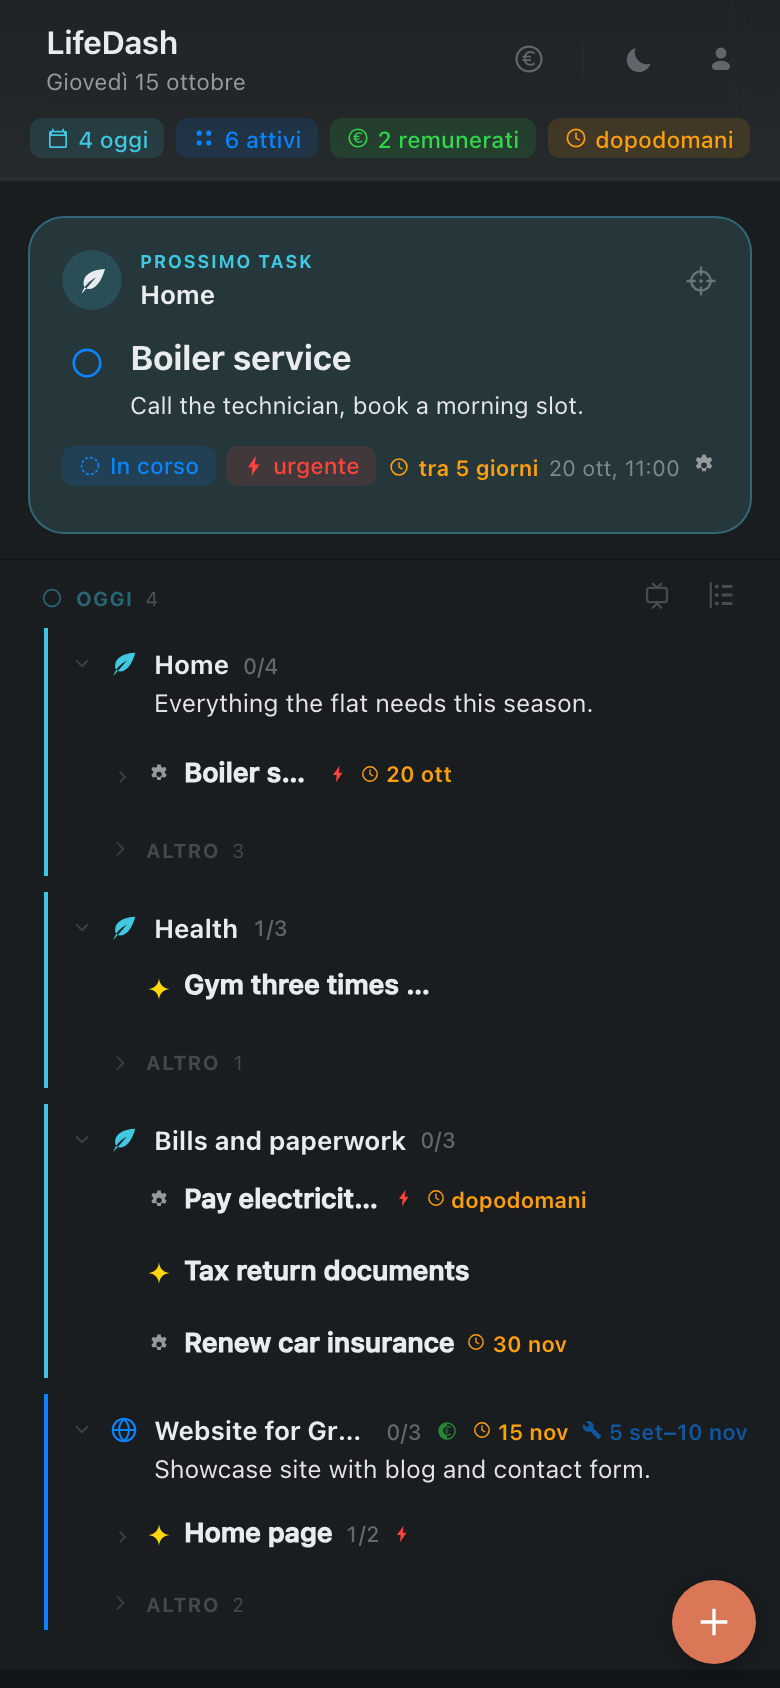
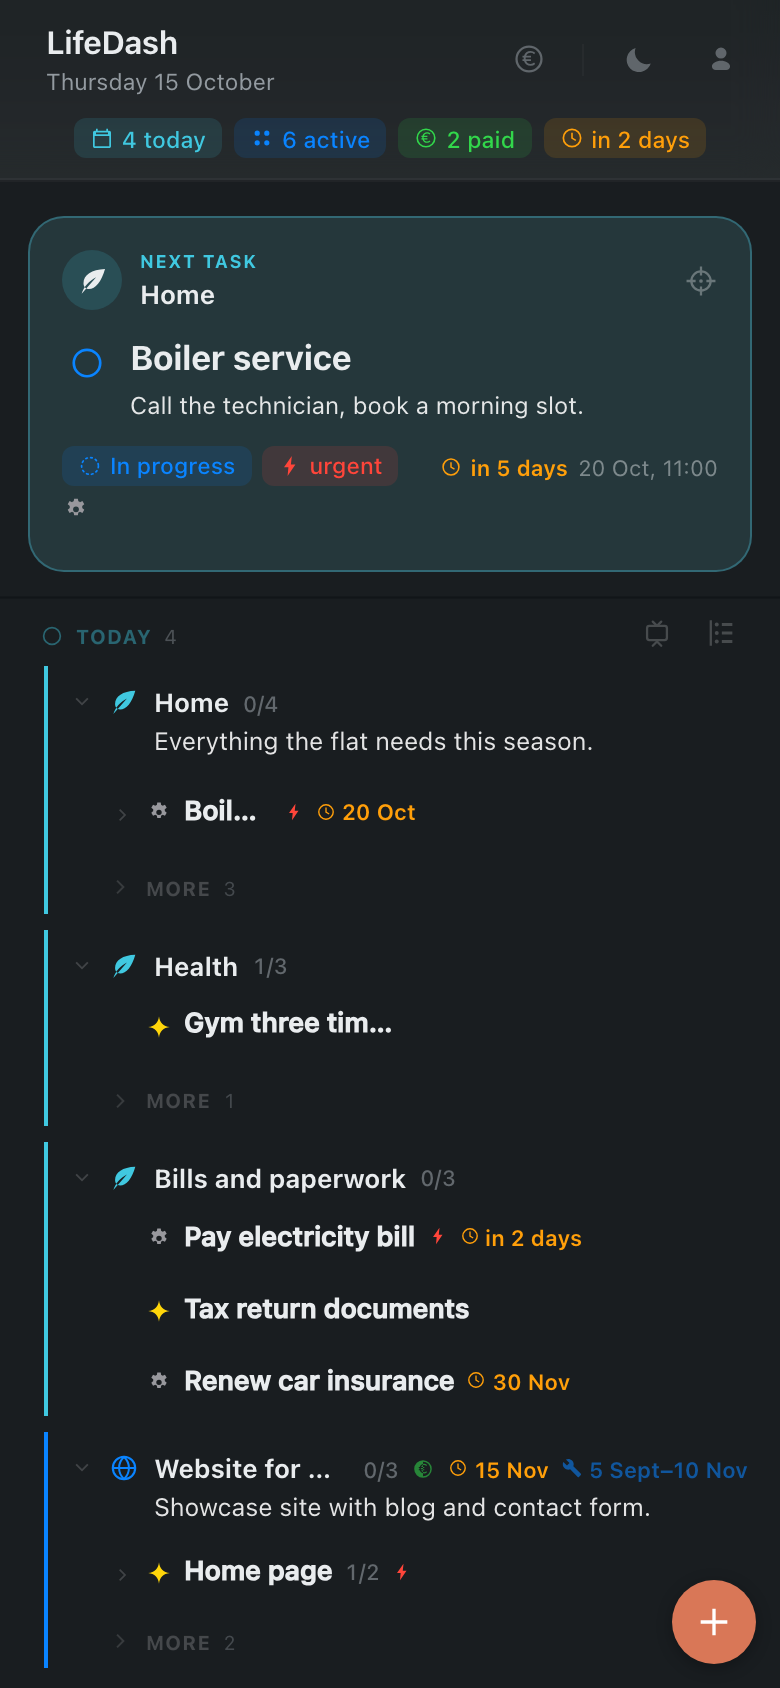
README: English interface, CLI section, privacy; new screenshots

diff --git a/README.md b/README.md
@@ -9,15 +9,10 @@ needs servicing, the bill due on Friday, the dentist, the trip in December, the
 client project that pays the rent: each area of your life is a project, each
 thing to do is a task, and the app always shows you what comes next.
 
-It is a native Mac app and a web app for your phone, kept in sync and
-encrypted end to end. Your data is a single readable file on your Mac, and it
-stays yours.
+It is a native Mac app and a web app for your phone, in English and Italian,
+kept in sync and encrypted end to end: your data stays yours.
 
 <p align="center"><img src="docs/img/web-list.png" width="720" alt="The list: next task at the top, projects grouped by status"></p>
-
-> **Language.** The interface is in Italian for now; your own projects and tasks
-> can be written in any language, as in the screenshots. An English interface is
-> planned.
 
 ## What it is for
 
@@ -37,8 +32,8 @@ live in your head, in sticky notes and in a dozen apps.
 ## How it works, in one minute
 
 1. **Projects** are the areas of your life (Home, Health, a trip, a client).
-   Each one has a status: *Oggi* (today, active now), *Futuri* (planned),
-   *In pausa* (paused) or *Completati* (done).
+   Each one has a status: *Today* (active now), *Planned*, *Paused* or
+   *Done*.
 2. **Tasks** live inside projects and can contain sub-tasks, as deep as you
    need. A task can be *to do*, *in progress*, *blocked* (with a note on why)
    or *done*, and can be marked *urgent*.
@@ -62,11 +57,10 @@ live in your head, in sticky notes and in a dozen apps.
 2. Open LifeDash. The app is signed and notarised by Apple, so it opens
    without warnings.
 3. Press **+** to create your first project, then add tasks to it. That's it:
-   LifeDash works fully offline, without an account.
+   LifeDash works on the Mac even without an account.
 
-Your data is saved in `~/Library/Application Support/LifeDash/tasks.json`.
-From **File › Scegli cartella dei dati…** (choose data folder) you can move it anywhere, for example into
-iCloud Drive or Dropbox.
+The interface follows the language of your Mac: Italian on an Italian system,
+English everywhere else.
 
 ### On your phone (and any browser)
 
@@ -79,6 +73,8 @@ iCloud Drive or Dropbox.
 3. On the phone, open **[antarcorrado.com/lifedash](https://www.antarcorrado.com/lifedash/)**,
    sign in, and add it to the Home Screen (Safari: Share › Add to Home Screen).
    It then opens like an app, works offline, and can send notifications.
+   The web app follows your browser's language; you can change it in
+   **Account › Language**.
 
 You can also create the account directly from the web app and use LifeDash
 only in the browser, on any computer.
@@ -92,7 +88,7 @@ only in the browser, on any computer.
 - **Edit**: click (or tap) a row, or the pencil, to open the editor: title,
   description, status, priority, due date, reminders, attachments.
 - **Tick**: the check mark completes a task. Completed tasks fold away under
-  *Completati*, with the date they were closed.
+  *Done*, with the date they were closed.
 - **Lists become sub-tasks**: write a description as a list (`- Milk`,
   `- Bread`) and each line becomes a sub-task you can tick on its own.
 - **Attachments**: add photos, PDFs and documents (up to 10 MB each) to any
@@ -101,7 +97,7 @@ only in the browser, on any computer.
   Open only what you are working on; the app remembers.
 - **Duplicate** a project or task to reuse it (the monthly shopping, a
   recurring check-up).
-- **Compact mode** (Mac, *Vista › Modalità compatta*): one slim bar on the
+- **Compact mode** (Mac, *View › Compact Mode*): one slim bar on the
   edge of the screen with just the next task and its check mark.
 
 <p align="center"><img src="docs/img/web-editor.png" width="720" alt="The project editor"></p>
@@ -118,27 +114,69 @@ year, by status and by category.
 
 ## Your data, your privacy
 
-- **One readable file.** On the Mac everything is in `tasks.json`, plain JSON
-  you can open, back up, version or edit by hand.
-- **End-to-end encryption.** With an account, your Mac and your browser
-  encrypt everything (AES-256-GCM) *before* sending it. The server stores only
-  unreadable blobs: it cannot see your projects, tasks or attachments.
+- **End-to-end encryption.** Your Mac and your browser encrypt everything
+  (AES-256-GCM) *before* sending it. The server keeps your data, so it is
+  there on every device, but only as unreadable blobs: it cannot see your
+  projects, tasks or attachments.
 - **Two-factor sign-in.** Every new device needs your password and a code from
   your authenticator app.
-- **Download everything.** In the web app, **Account › I tuoi dati › Scarica
-  tutti i dati** gives you a zip with your `tasks.json` and all attachments,
-  decrypted on your device.
-- **Delete your account.** **Account › Cancella l'account** removes your
-  account and every piece of your data from the server, for good. The file on
-  your Mac is not touched.
+- **Download everything.** In the web app, **Account › Your data › Download
+  all data** gives you a zip with all your projects and tasks (`tasks.json`)
+  and every attachment, decrypted on your device.
+- **Delete your account.** **Account › Delete account** removes your account
+  and every piece of your data from the server, for good.
 - **No tracking.** No analytics, no ads, no third-party scripts.
 
-## For automation and AI agents
+## Use it from the command line and AI agents
 
-From **Account › Token per script e agenti** in the web app you can create a
-token (read-only or read-write) that lets a script or an AI agent read and
-update your projects and tasks, for example to add a task when a job is done.
-Tokens can be revoked at any time, and they never reveal your password.
+The `lifedash` command reads and changes your projects and tasks from the
+Terminal, so a script or an AI agent (Claude Code, Codex and others) can add a
+task when a job is done, list what is due this week, or tick something off.
+It ships inside the Mac app, which installs it the first time you open it,
+and it needs [Node.js](https://nodejs.org) 18 or later.
+
+**1. Check that it is there:**
+
+```bash
+lifedash --help
+```
+
+The app links the command into the first folder it can write among
+`/opt/homebrew/bin`, `/usr/local/bin` and `~/.local/bin`. If your Terminal
+answers *command not found*, that folder is not in your `PATH`: add it, or
+call the command by its full path,
+`/Applications/LifeDash.app/Contents/Resources/cli/lifedash.mjs`.
+
+**2. Give it a token.** A script cannot type your password and a 6-digit code,
+so the command signs in with a token instead. In the web app open **Account ›
+Tokens for scripts and agents** (on the Mac: **Account › Tokens for scripts
+and agents › New token…**), give it a name and choose *read only* if the agent
+should only look. Copy the token, then:
+
+```bash
+lifedash login        # paste the token and press Enter
+lifedash whoami       # checks that it works
+```
+
+The token stays in `~/.config/lifedash/credentials.json`, readable only by
+you. It opens your data without your password, so treat it like one: you can
+see every token in the Account panel and revoke it at any time.
+
+**3. Use it:**
+
+```bash
+lifedash projects                                  # open projects
+lifedash tasks --open --sort due                   # what is still to do, by due date
+lifedash tasks --overdue                           # what is late
+lifedash task add --project home --title "Call the plumber" --due 2026-11-03
+lifedash task done task-1a2b3c4d                   # tick a task off
+lifedash --help                                    # every command and option
+```
+
+To let an AI agent use it, tell it the command exists, for example:
+
+> Use the `lifedash` command to add a task to my Home project for every repair
+> you find in this list.
 
 ## Requirements
 
